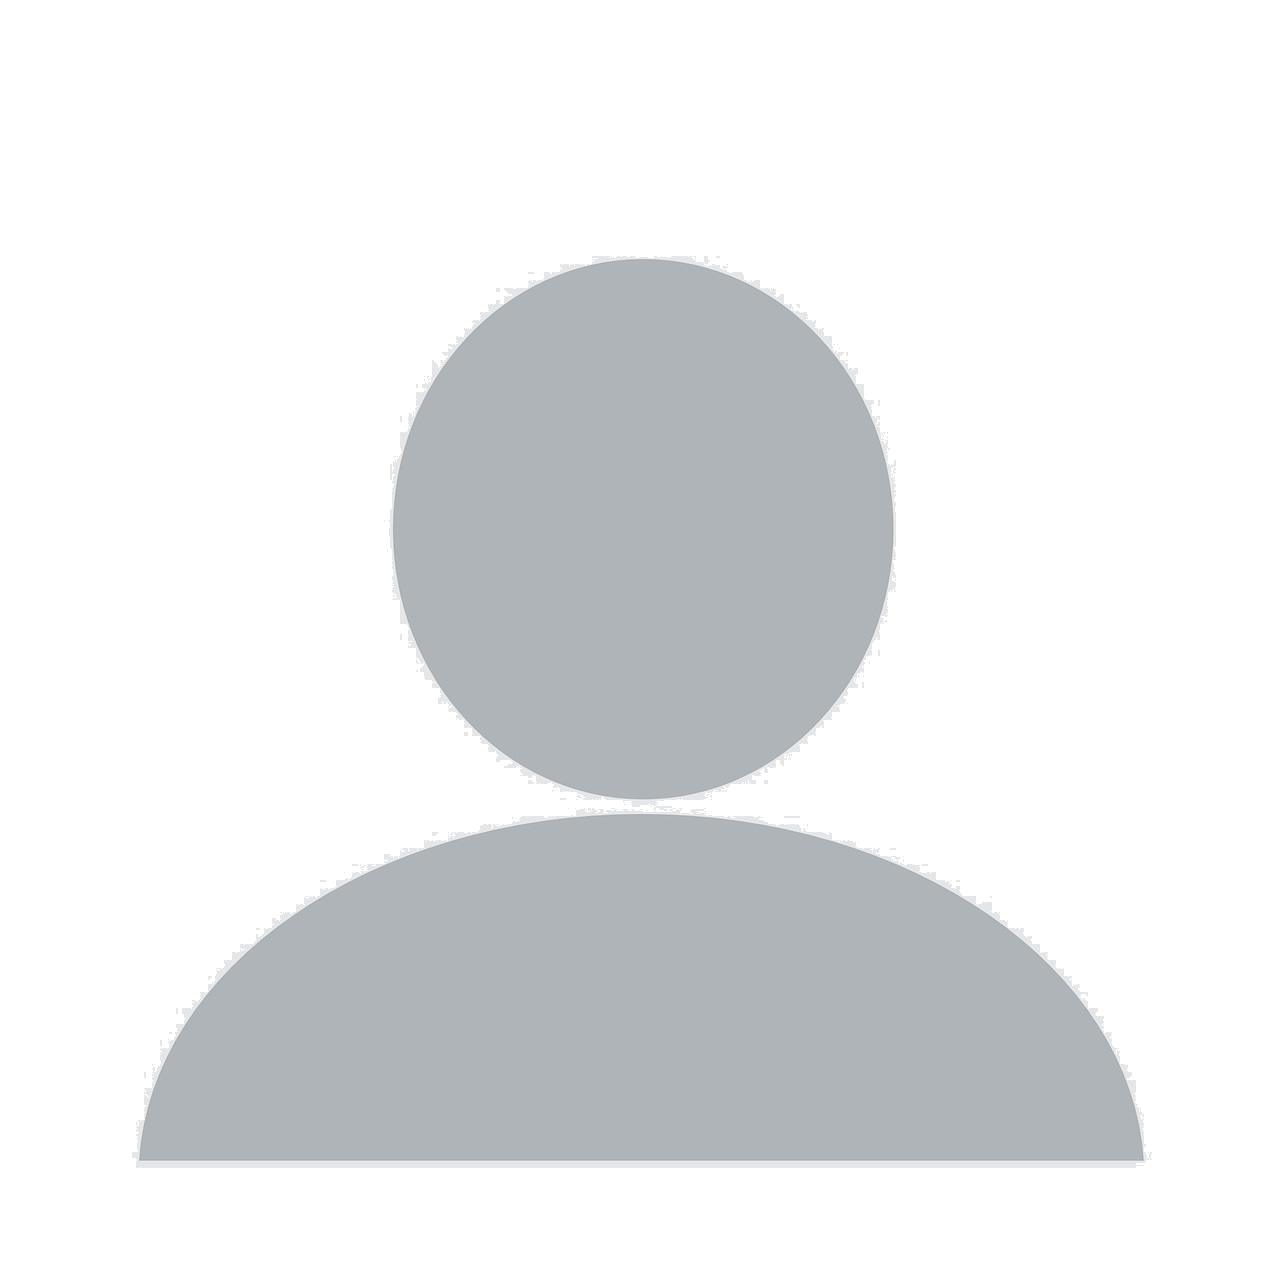
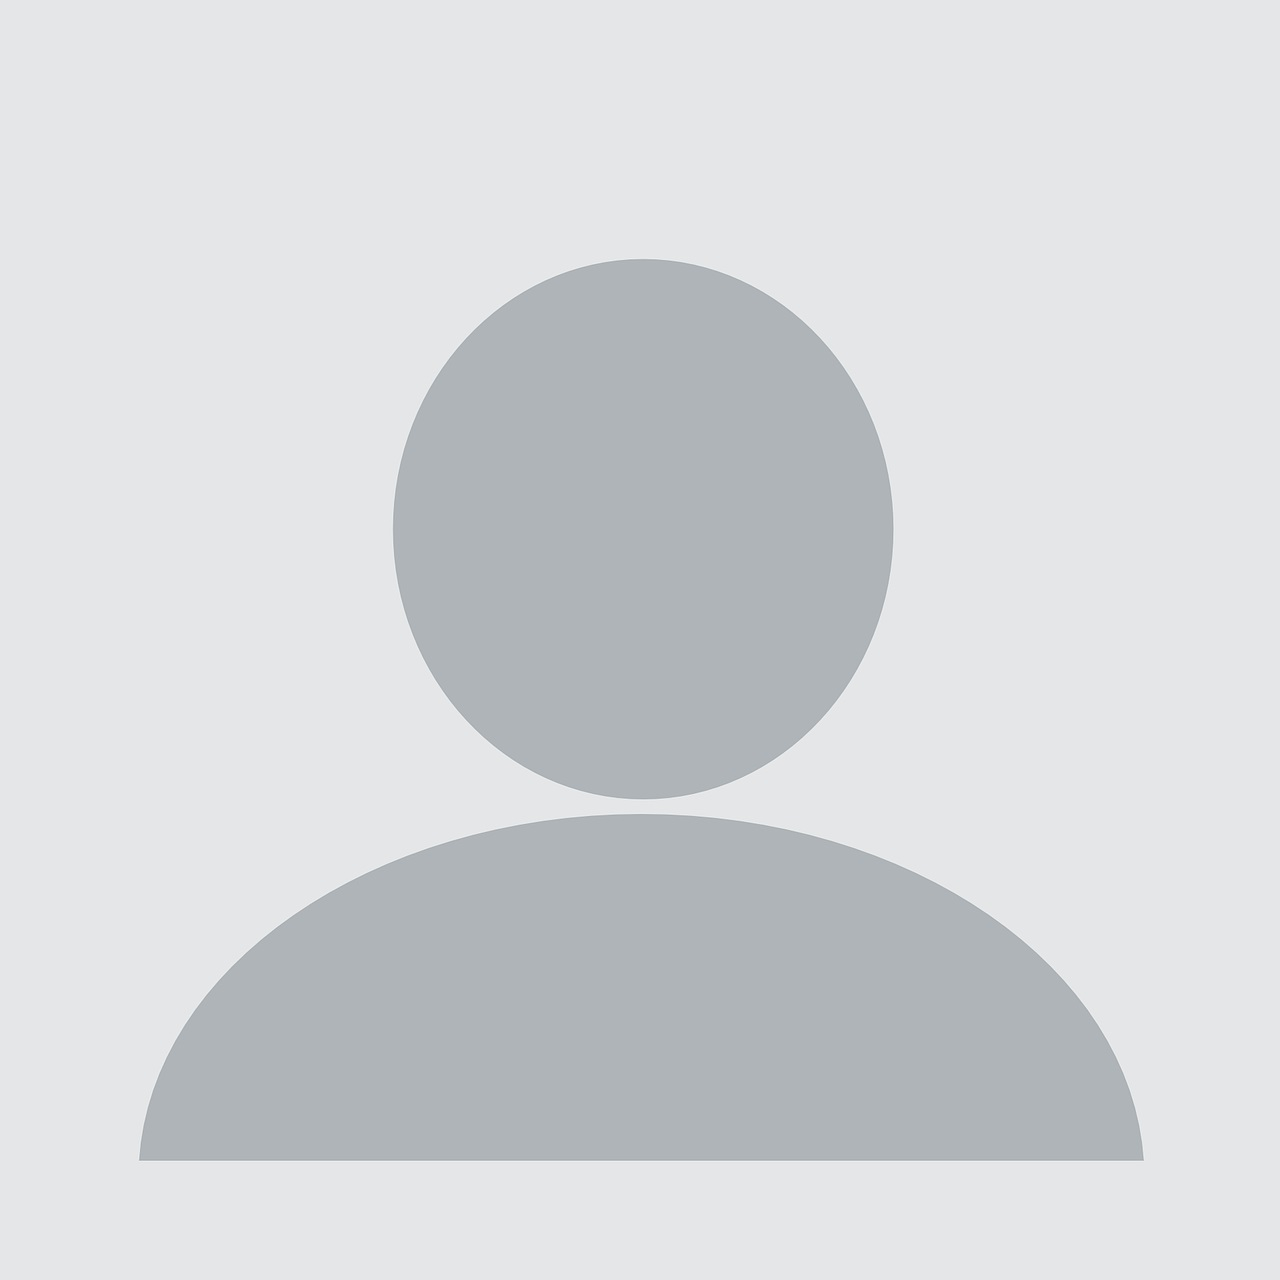
FEAT sintassi aside completa

diff --git a/index.html b/index.html
@@ -32,7 +32,7 @@
                     <div class="user d-flex justify-content-between align-items-center px-3">
 
                         <div class="d-flex align-items-center gap-2">
-                            <img src="./img/avatar_1.png" alt="" class="profilePic">
+                            <img src="./img/avatar_s.png" alt="" class="profilePic">
                             <h5>Sofia</h5>
                         </div>
 
@@ -72,13 +72,21 @@
                             </form>
                     </div>
 
-                    <div class="contatti d-flex flex-column justify-content-start bg-primary">
+                    <div class="contacts d-flex flex-column justify-content-start">
                         <div                            
                         @click="capiamo(contact)"
                         v-for="(contact,index) in contacts"
-                        class="d-flex justify-content-between"
+                        class="contact d-flex justify-content-between"
                         >
-                        {{ contact.name }}
+                            <img :src="contact.avatar" alt="" class="profilePic">
+
+                            <div class="flex-grow-1">
+                                <h5>{{ contact.name }}</h5>
+                                <span>Ultimo messaggio inviato</span>
+                            </div>
+
+                            <span>12:00</span>
+
                         </div>
                     </div>
 

diff --git a/css/app.css b/css/app.css
@@ -47,10 +47,6 @@ body {
     max-width: calc(100% * 8 / 9);
 }
 
-.contatti {
-    background-color: white;
-}
-
 
 /*USER*/
 
@@ -133,4 +129,30 @@ body {
 .searchbar input::placeholder {
     font-size: 14px;
     padding: 0 20px;
+}
+
+/*CONTATTI*/
+
+.contacts {
+    height: 100%;
+}
+
+.contact {
+    height: 85px;
+    
+    background-color: white !important;
+    border-bottom: 1px solid rgba(0, 0, 0, 0.1);
+
+    font-size: 12px !important;
+
+    padding-top: 1rem !important;
+    padding-right: 0.5rem !important;
+}
+
+.contacts img {
+    margin: 0 1.5rem !important;
+}
+
+.contacts h5 {
+    font-size: 15px !important
 }
